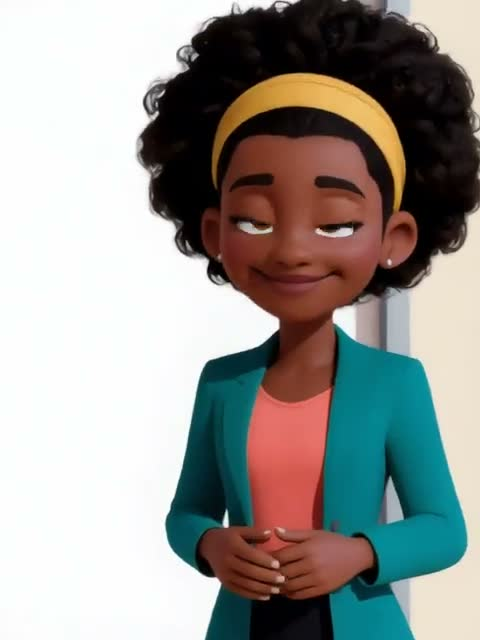
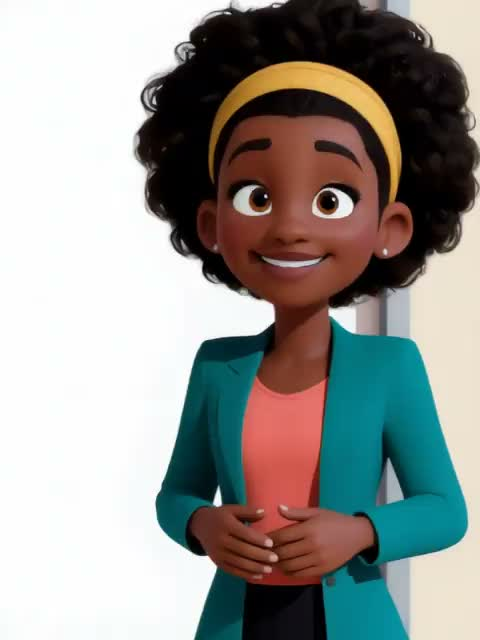
Soát hình màn mới – đợt sửa 2: bài học không còn 2 chân khi route chạy chồng (chân rỗng đè nút Kiểm tra), tab thẻ khoe không vỡ hình tròn ở ngôn ngữ dài, trang chuỗi vẽ lại khi nhận mảnh sự kiện, mock gọi giáo viên bỏ Kit + poster Ama mắt mở + nút đạt tương phản; bộ thử ẩn toast sandbox

diff --git a/docs/mocks/teacher-call/index.html b/docs/mocks/teacher-call/index.html
@@ -29,7 +29,8 @@
   .round { width: 54px; height: 54px; border-radius: 50%; border: 0; font-size: 22px; cursor: pointer; color: #fff; }
   .mic { background: var(--teal2); } .mic.on { background: var(--orange); animation: pulse 1s infinite; } .hang { background: #D23B2A; } .go { background: #15803d; width: auto; padding: 0 18px; border-radius: 99px; font-size: 15px; font-weight: 700; }
   @keyframes pulse { 50% { box-shadow: 0 0 0 10px #E5502F33; } }
-  .react { position: absolute; right: 10px; top: 52px; z-index: 4; width: 84px; opacity: 0; transform: scale(.7); transition: .25s; }
+  .react { position: absolute; right: 10px; top: 52px; z-index: 4; width: 64px; height: 64px; border-radius: 50%; display: grid; place-items: center; font: 800 34px system-ui; color: #fff; background: #15803d; opacity: 0; transform: scale(.7); transition: .25s; }
+  .react.try { background: #B03718; }
   .react.show { opacity: 1; transform: none; }
   .side { display: grid; gap: 12px; align-content: start; }
   .card { background: var(--card); border-radius: 14px; padding: 12px 14px; }
@@ -67,7 +68,7 @@
         <li>Switch = 180 ms crossfade between two stacked videos, so there is no black flash.</li>
         <li>Lips follow the <i>tempo</i> of the voice, not each word (honest limit).</li>
         <li>Replies here are scripted branches (0 AI calls). The real build tries on-device AI first, then the shared quota.</li>
-        <li>The Kit badge stands in for the teacher reaction clips that are not in the bank yet.</li>
+        <li>A ✓ / ↺ badge stands in for the teacher reaction clips that are not in the bank yet (no other mascot).</li>
       </ul>
     </div>
     <div class="card"><h2>Device tier (pilot gate, design §5.2)</h2><div class="log" id="tier">measuring…</div></div>
@@ -76,7 +77,6 @@
   </div>
 </div>
 
-<script src="../../../web/js/kit.js"></script>
 <script>
 (() => {
   const CLIPS = { talk: ['clips/ama_talk1.mp4', 'clips/ama_talk2.mp4'], listen: 'clips/ama_listen.mp4' };
@@ -118,7 +118,7 @@
   const VM = [[/th/g, 'TH'], [/ch|sh|j/g, 'CH'], [/[pbm]/g, 'PP'], [/[fv]/g, 'FF'], [/[tdnl]/g, 'DD'], [/[kgcq]/g, 'kk'], [/[sz]/g, 'SS'], [/r/g, 'RR'], [/a/g, 'aa'], [/e/g, 'E'], [/i|y/g, 'I'], [/o/g, 'O'], [/u|w/g, 'U']];
   function visemes(w) { let s = w.toLowerCase(); const out = []; while (s) { const hit = VM.find(([re]) => { re.lastIndex = 0; const m = re.exec(s); return m && m.index === 0; }); if (hit) { hit[0].lastIndex = 0; const m = hit[0].exec(s); out.push(hit[1]); s = s.slice(m[0].length); } else s = s.slice(1); } return out.filter((v, i) => v !== out[i - 1]); }
 
-  // Tier gate: WebGL2 + deviceMemory ≥ 4 + ≥ 24 fps in 2 s → 3D; else sprite; saveData / 2g / reduced motion → still + Kit
+  // Tier gate: WebGL2 + deviceMemory ≥ 4 + ≥ 24 fps in 2 s → 3D; else sprite; saveData / 2g / reduced motion → still poster
   (async function tier() {
     const gl = !!document.createElement('canvas').getContext('webgl2'), mem = navigator.deviceMemory || 0, c = navigator.connection || {};
     const lite = c.saveData || /2g/.test(c.effectiveType || '') || matchMedia('(prefers-reduced-motion: reduce)').matches;
@@ -126,13 +126,13 @@
     const fps = Math.round(n / 2), SR = !!(window.SpeechRecognition || window.webkitSpeechRecognition);
     let nano = 'no'; try { if (window.LanguageModel) nano = await LanguageModel.availability(); } catch (e) { nano = 'error'; }
     let local = 'n/a'; try { const S = window.SpeechRecognition; if (S && S.available) local = await S.available({ langs: ['en-US'], processLocally: true }); } catch (e) { local = 'error'; }
-    const pick = lite ? 'still + Kit' : gl && mem >= 4 && fps >= 24 ? '3D avatar (A)' : 'viseme sprite (B)';
+    const pick = lite ? 'still poster' : gl && mem >= 4 && fps >= 24 ? '3D avatar (A)' : 'viseme sprite (B)';
     $('tier').textContent = `WebGL2 ${gl} · deviceMemory ${mem || '?'} GB · fps ${fps} · lite ${!!lite}\nWeb Speech ${SR} · on-device STT ${local}\nGemini Nano (Prompt API) ${nano}\n→ character tier: ${pick}`;
   })();
 
   function react(kind) {
-    const r = $('react'); if (!window.Kit) return;
-    r.innerHTML = Kit.svg(kind === 'good' ? 'cheer' : 'think', 84); r.classList.add('show');
+    const r = $('react'); // ký hiệu, KHÔNG nhân vật phụ (luật: chỉ Ama/Carlos 3D bank v2)
+    r.textContent = kind === 'good' ? '✓' : '↺'; r.classList.toggle('try', kind !== 'good'); r.classList.add('show');
     setTimeout(() => r.classList.remove('show'), 1400);
   }
 

diff --git a/extension/app/js/lesson/ui.js b/extension/app/js/lesson/ui.js
@@ -90,7 +90,8 @@
 
   let L = null; // bài đang chạy
   App.lessonState = () => L; // cho test CI (scripts/test/lesson.mjs) – chỉ đọc
-  const cleanup = () => { if (L) { if (L.ro) L.ro.disconnect(); if (L.teacher) L.teacher.destroy(); if (L.rec && L.rec.stop) try { L.rec.stop(); } catch (e) { /* đã dừng */ } L.dead = true; } L = null; const f = $('#lsnFoot'); if (f) f.remove(); };
+  const cleanup = () => { if (L) { if (L.ro) L.ro.disconnect(); if (L.teacher) L.teacher.destroy(); if (L.rec && L.rec.stop) try { L.rec.stop(); } catch (e) { /* đã dừng */ } L.dead = true; } L = null; document.querySelectorAll('.lsn-foot').forEach(f => f.remove()); }; // mọi chân cũ (không chỉ #lsnFoot đầu tiên)
+  let runId = 0; // route chạy chồng (await giữa chừng) → chỉ lượt mới nhất được vẽ; trước đây 2 lượt = 2 chân #lsnFoot, chân rỗng đè mép dưới nút Kiểm tra
 
   // Tiến độ bản đồ: số nút đã xong (bền, không theo ngày – như lộ trình). Demo dùng khóa riêng.
   const PKEY = demo => (demo ? 'lk.lsn.path.demo' : 'lk.lsn.path');
@@ -102,14 +103,17 @@
   const meanLang = () => { try { return (I18N.meanLang && I18N.meanLang()) || I18N.lang() || 'en'; } catch (e) { return 'en'; } };
 
   routes.lesson = async function (arg) {
+    const my = ++runId;
     css(); cleanup();
     const demo = /[?&]demo=1\b/.test(location.hash);
     if (!demo && !(App.lessonOn && App.lessonOn())) { view.innerHTML = `<div class="card center"><p>${t('Bài học trộn đang thử nghiệm, sắp ra mắt.')}</p><a class="btn primary" href="#/home">${t('Quay về trang chủ')}</a></div>`; return; }
     if (window.I18N && I18N.whenReady) await I18N.whenReady();
+    if (my !== runId) return;
     const cards = demo ? DEMO() : Object.values(state.cards || {});
     const plan = E.pathPlan(cards, Date.now(), { story: STORIES('story').length, radio: STORIES('radio').length }), n = pathN(demo), node = plan[n % plan.length];
     if (arg !== 'go') return map(demo, plan, n);
     await imgP();
+    if (my !== runId) return;
     // Truyện / Radio: bài tiếp theo chưa nghe (xoay vòng), Ama ↔ Carlos đọc bằng giọng Kokoro sinh sẵn
     const SK = 'lk.lsn.s.' + node.kind + (demo ? '.demo' : ''), sl = STORIES(node.kind), story = sl.length ? sl[(parseInt(ls.get(SK) || '0', 10) || 0) % sl.length] : null;
     const picks = story ? [] : E.pickWords(cards, { n: 4, starter: STARTER(), mode: node.kind }); // 4 từ ≈ 9 bài ≈ 2–3 phút

diff --git a/web/js/lesson/ui.js b/web/js/lesson/ui.js
@@ -90,7 +90,8 @@
 
   let L = null; // bài đang chạy
   App.lessonState = () => L; // cho test CI (scripts/test/lesson.mjs) – chỉ đọc
-  const cleanup = () => { if (L) { if (L.ro) L.ro.disconnect(); if (L.teacher) L.teacher.destroy(); if (L.rec && L.rec.stop) try { L.rec.stop(); } catch (e) { /* đã dừng */ } L.dead = true; } L = null; const f = $('#lsnFoot'); if (f) f.remove(); };
+  const cleanup = () => { if (L) { if (L.ro) L.ro.disconnect(); if (L.teacher) L.teacher.destroy(); if (L.rec && L.rec.stop) try { L.rec.stop(); } catch (e) { /* đã dừng */ } L.dead = true; } L = null; document.querySelectorAll('.lsn-foot').forEach(f => f.remove()); }; // mọi chân cũ (không chỉ #lsnFoot đầu tiên)
+  let runId = 0; // route chạy chồng (await giữa chừng) → chỉ lượt mới nhất được vẽ; trước đây 2 lượt = 2 chân #lsnFoot, chân rỗng đè mép dưới nút Kiểm tra
 
   // Tiến độ bản đồ: số nút đã xong (bền, không theo ngày – như lộ trình). Demo dùng khóa riêng.
   const PKEY = demo => (demo ? 'lk.lsn.path.demo' : 'lk.lsn.path');
@@ -102,14 +103,17 @@
   const meanLang = () => { try { return (I18N.meanLang && I18N.meanLang()) || I18N.lang() || 'en'; } catch (e) { return 'en'; } };
 
   routes.lesson = async function (arg) {
+    const my = ++runId;
     css(); cleanup();
     const demo = /[?&]demo=1\b/.test(location.hash);
     if (!demo && !(App.lessonOn && App.lessonOn())) { view.innerHTML = `<div class="card center"><p>${t('Bài học trộn đang thử nghiệm, sắp ra mắt.')}</p><a class="btn primary" href="#/home">${t('Quay về trang chủ')}</a></div>`; return; }
     if (window.I18N && I18N.whenReady) await I18N.whenReady();
+    if (my !== runId) return;
     const cards = demo ? DEMO() : Object.values(state.cards || {});
     const plan = E.pathPlan(cards, Date.now(), { story: STORIES('story').length, radio: STORIES('radio').length }), n = pathN(demo), node = plan[n % plan.length];
     if (arg !== 'go') return map(demo, plan, n);
     await imgP();
+    if (my !== runId) return;
     // Truyện / Radio: bài tiếp theo chưa nghe (xoay vòng), Ama ↔ Carlos đọc bằng giọng Kokoro sinh sẵn
     const SK = 'lk.lsn.s.' + node.kind + (demo ? '.demo' : ''), sl = STORIES(node.kind), story = sl.length ? sl[(parseInt(ls.get(SK) || '0', 10) || 0) % sl.length] : null;
     const picks = story ? [] : E.pickWords(cards, { n: 4, starter: STARTER(), mode: node.kind }); // 4 từ ≈ 9 bài ≈ 2–3 phút

diff --git a/extension/app/js/retention.js b/extension/app/js/retention.js
@@ -218,6 +218,7 @@ body[data-ret-frame] .avatar{padding:2px;background:var(--ret-frame)}
         if (!have.includes(k) && have.length < ev.need) {
           const r = await mutate(r => { r.ev = r.ev || {}; r.ev[ev.id] = [...(r.ev[ev.id] || []), k].sort(); if (r.ev[ev.id].length >= ev.need && !(r.evDone || {})[ev.id]) { r.evDone = { ...(r.evDone || {}), [ev.id]: Date.now() }; r.own = { ...(r.own || {}), ['f:' + ev.frame]: Date.now() }; } });
           const got = r.ev[ev.id].length;
+          if (location.hash.startsWith('#/streak')) setTimeout(() => page(null, true), 0); // đang ở trang chuỗi → vẽ lại để mảnh vừa nhận sáng lên ngay (không gọi lại check → không chúc mừng 2 lần)
           UI.toast(got >= ev.need ? `${ev.icon} ${t('Hoàn thành sự kiện! Bạn nhận khung mới và 1 rương quà.')}` : `${ev.icon} ${t('Nhận 1 mảnh sự kiện ({a}/{b})', { a: got, b: ev.need })}`, 3500);
         }
       }
@@ -231,7 +232,7 @@ body[data-ret-frame] .avatar{padding:2px;background:var(--ret-frame)}
   Ret.widget = st => { const d = Core.activeDays(st || state), k = [...d].sort().pop() || ''; return { who: new Date().getDate() % 2 ? 'ama' : 'carlos', sd: k, ok: t('Hôm nay đã học'), risk: t('Giữ chuỗi hôm nay nhé!') }; };
 
   // ---------- Trang #/streak ----------
-  function page() {
+  function page(arg, noCheck) {
     css(); applyFrame();
     const n = streakN(), nx = Core.next(n), r = ret(), fi = g.Core && g.Core.Stats ? g.Core.Stats.freezeInfo(state.game) : { left: +state.game.freezes || 0, max: 2 };
     const ev = Core.event(today()), got = ev ? ((r.ev || {})[ev.id] || []).length : 0, ch = Core.chests(r), own = r.own || {};
@@ -249,7 +250,7 @@ body[data-ret-frame] .avatar{padding:2px;background:var(--ret-frame)}
     </div>`;
     const c = document.getElementById('retChest'); if (c) c.onclick = openChest;
     view().querySelectorAll('[data-ret-item]').forEach(b => { b.onclick = () => wear(b.dataset.retItem === 'f:teal' ? '' : b.dataset.retItem.slice(2)); });
-    check();
+    if (!noCheck) check();
   }
   App.routes.streak = page;
 

diff --git a/web/js/retention.js b/web/js/retention.js
@@ -218,6 +218,7 @@ body[data-ret-frame] .avatar{padding:2px;background:var(--ret-frame)}
         if (!have.includes(k) && have.length < ev.need) {
           const r = await mutate(r => { r.ev = r.ev || {}; r.ev[ev.id] = [...(r.ev[ev.id] || []), k].sort(); if (r.ev[ev.id].length >= ev.need && !(r.evDone || {})[ev.id]) { r.evDone = { ...(r.evDone || {}), [ev.id]: Date.now() }; r.own = { ...(r.own || {}), ['f:' + ev.frame]: Date.now() }; } });
           const got = r.ev[ev.id].length;
+          if (location.hash.startsWith('#/streak')) setTimeout(() => page(null, true), 0); // đang ở trang chuỗi → vẽ lại để mảnh vừa nhận sáng lên ngay (không gọi lại check → không chúc mừng 2 lần)
           UI.toast(got >= ev.need ? `${ev.icon} ${t('Hoàn thành sự kiện! Bạn nhận khung mới và 1 rương quà.')}` : `${ev.icon} ${t('Nhận 1 mảnh sự kiện ({a}/{b})', { a: got, b: ev.need })}`, 3500);
         }
       }
@@ -231,7 +232,7 @@ body[data-ret-frame] .avatar{padding:2px;background:var(--ret-frame)}
   Ret.widget = st => { const d = Core.activeDays(st || state), k = [...d].sort().pop() || ''; return { who: new Date().getDate() % 2 ? 'ama' : 'carlos', sd: k, ok: t('Hôm nay đã học'), risk: t('Giữ chuỗi hôm nay nhé!') }; };
 
   // ---------- Trang #/streak ----------
-  function page() {
+  function page(arg, noCheck) {
     css(); applyFrame();
     const n = streakN(), nx = Core.next(n), r = ret(), fi = g.Core && g.Core.Stats ? g.Core.Stats.freezeInfo(state.game) : { left: +state.game.freezes || 0, max: 2 };
     const ev = Core.event(today()), got = ev ? ((r.ev || {})[ev.id] || []).length : 0, ch = Core.chests(r), own = r.own || {};
@@ -249,7 +250,7 @@ body[data-ret-frame] .avatar{padding:2px;background:var(--ret-frame)}
     </div>`;
     const c = document.getElementById('retChest'); if (c) c.onclick = openChest;
     view().querySelectorAll('[data-ret-item]').forEach(b => { b.onclick = () => wear(b.dataset.retItem === 'f:teal' ? '' : b.dataset.retItem.slice(2)); });
-    check();
+    if (!noCheck) check();
   }
   App.routes.streak = page;
 

diff --git a/extension/app/js/share-card.js b/extension/app/js/share-card.js
@@ -18,10 +18,10 @@
     if (d.getElementById('sc-css')) return;
     const st = d.createElement('style'); st.id = 'sc-css';
     st.textContent = `.sc{display:grid;gap:.9rem;justify-items:center;text-align:center}.sc h2{margin:0;font-size:1.2rem}
-.sc-tabs{display:inline-grid;grid-template-columns:1fr 1fr;gap:.3rem;background:var(--surface-2);padding:.3rem;border-radius:999px}
-.sc-tabs button{border:0;background:none;padding:.5rem 1rem;border-radius:999px;font:inherit;font-weight:700;color:var(--muted);cursor:pointer;min-height:44px}
+.sc-tabs{display:grid;grid-template-columns:1fr 1fr;gap:.3rem;background:var(--surface-2);padding:.3rem;border-radius:18px;width:100%;max-width:380px}
+.sc-tabs button{border:0;background:none;border-radius:14px;font:inherit;font-size:.9rem;font-weight:700;color:var(--muted);cursor:pointer;min-height:44px;padding:.4rem .5rem;line-height:1.2;min-width:0}
 .sc-tabs button[aria-selected=true]{background:var(--surface);color:var(--text);box-shadow:0 2px 8px rgba(0,0,0,.1)}
-.sc canvas{display:block;width:auto;max-width:100%;height:auto;max-height:min(56vh,520px);border-radius:16px;box-shadow:0 14px 34px rgba(15,61,62,.25);background:${C.teal}}
+.sc canvas{display:block;width:auto;max-width:100%;height:auto;max-height:min(50vh,520px);border-radius:16px;box-shadow:0 14px 34px rgba(15,61,62,.25);background:${C.teal}}
 .sc-act{display:flex;gap:.6rem;flex-wrap:wrap;justify-content:center}.sc-act .btn{min-height:44px}`;
     d.head.appendChild(st);
   };

diff --git a/web/js/share-card.js b/web/js/share-card.js
@@ -18,10 +18,10 @@
     if (d.getElementById('sc-css')) return;
     const st = d.createElement('style'); st.id = 'sc-css';
     st.textContent = `.sc{display:grid;gap:.9rem;justify-items:center;text-align:center}.sc h2{margin:0;font-size:1.2rem}
-.sc-tabs{display:inline-grid;grid-template-columns:1fr 1fr;gap:.3rem;background:var(--surface-2);padding:.3rem;border-radius:999px}
-.sc-tabs button{border:0;background:none;padding:.5rem 1rem;border-radius:999px;font:inherit;font-weight:700;color:var(--muted);cursor:pointer;min-height:44px}
+.sc-tabs{display:grid;grid-template-columns:1fr 1fr;gap:.3rem;background:var(--surface-2);padding:.3rem;border-radius:18px;width:100%;max-width:380px}
+.sc-tabs button{border:0;background:none;border-radius:14px;font:inherit;font-size:.9rem;font-weight:700;color:var(--muted);cursor:pointer;min-height:44px;padding:.4rem .5rem;line-height:1.2;min-width:0}
 .sc-tabs button[aria-selected=true]{background:var(--surface);color:var(--text);box-shadow:0 2px 8px rgba(0,0,0,.1)}
-.sc canvas{display:block;width:auto;max-width:100%;height:auto;max-height:min(56vh,520px);border-radius:16px;box-shadow:0 14px 34px rgba(15,61,62,.25);background:${C.teal}}
+.sc canvas{display:block;width:auto;max-width:100%;height:auto;max-height:min(50vh,520px);border-radius:16px;box-shadow:0 14px 34px rgba(15,61,62,.25);background:${C.teal}}
 .sc-act{display:flex;gap:.6rem;flex-wrap:wrap;justify-content:center}.sc-act .btn{min-height:44px}`;
     d.head.appendChild(st);
   };
